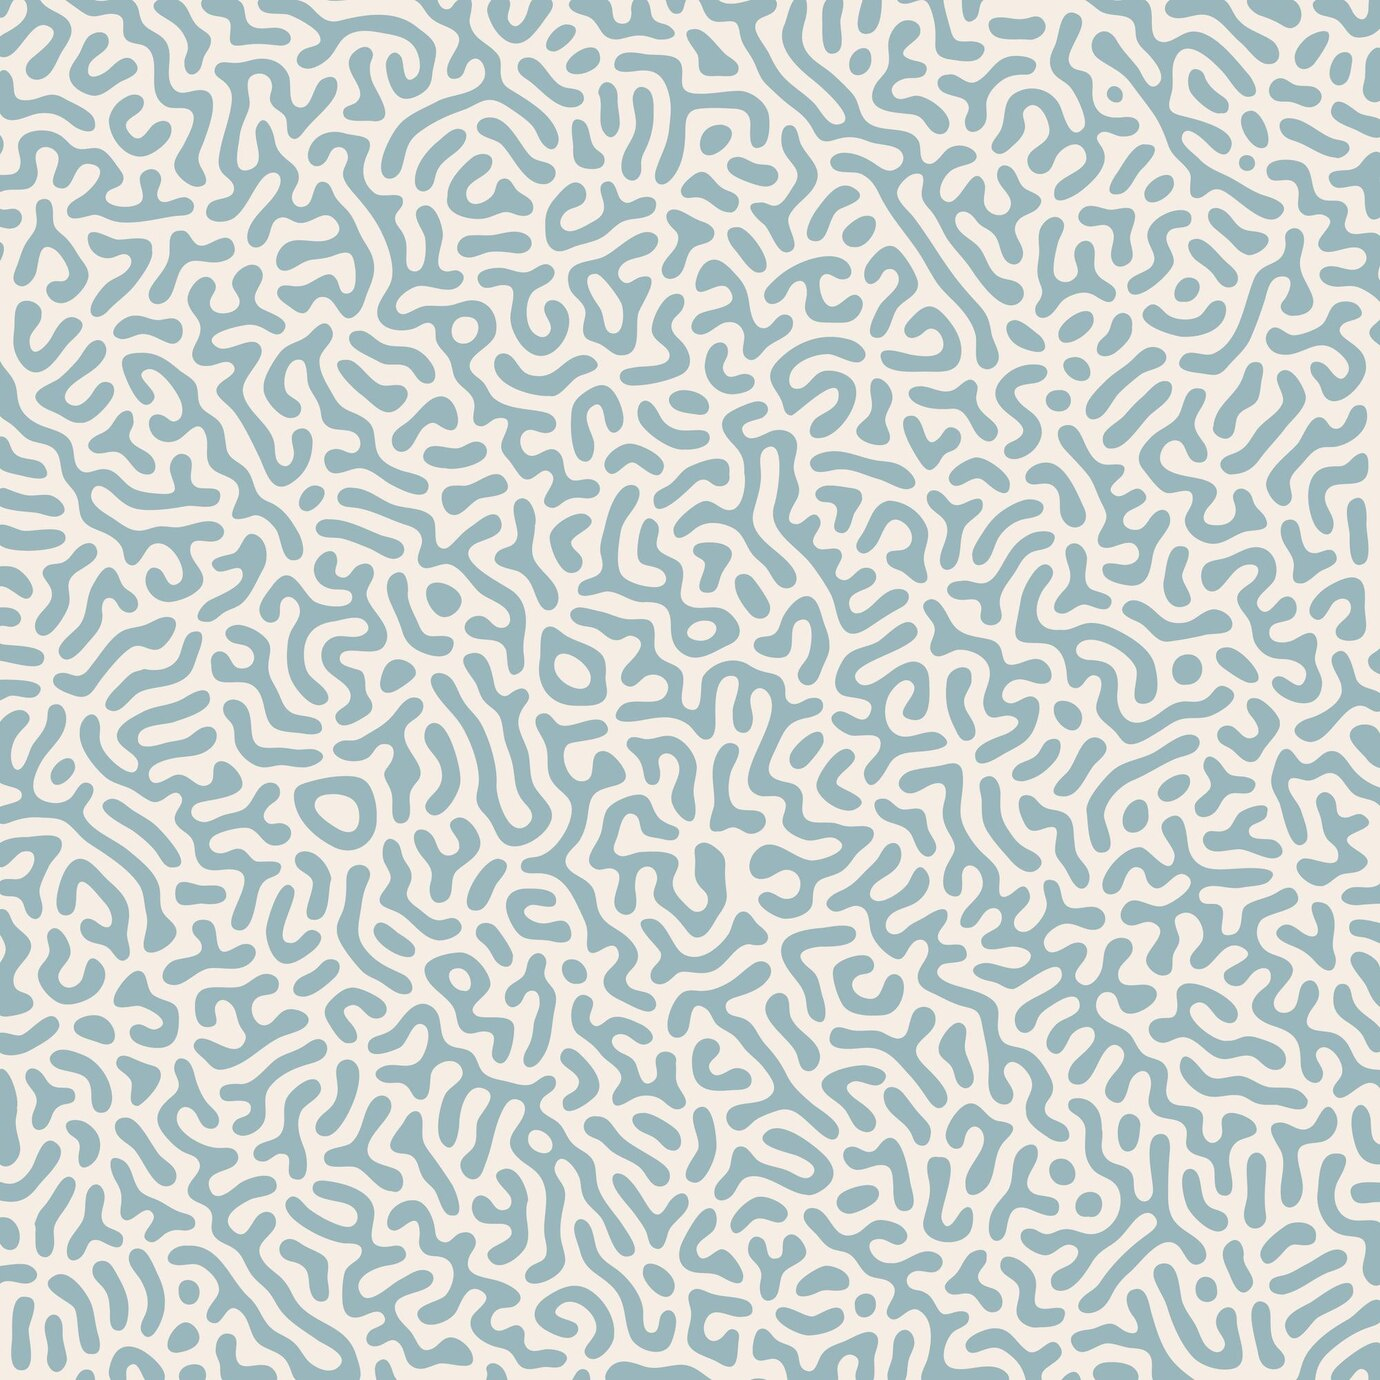
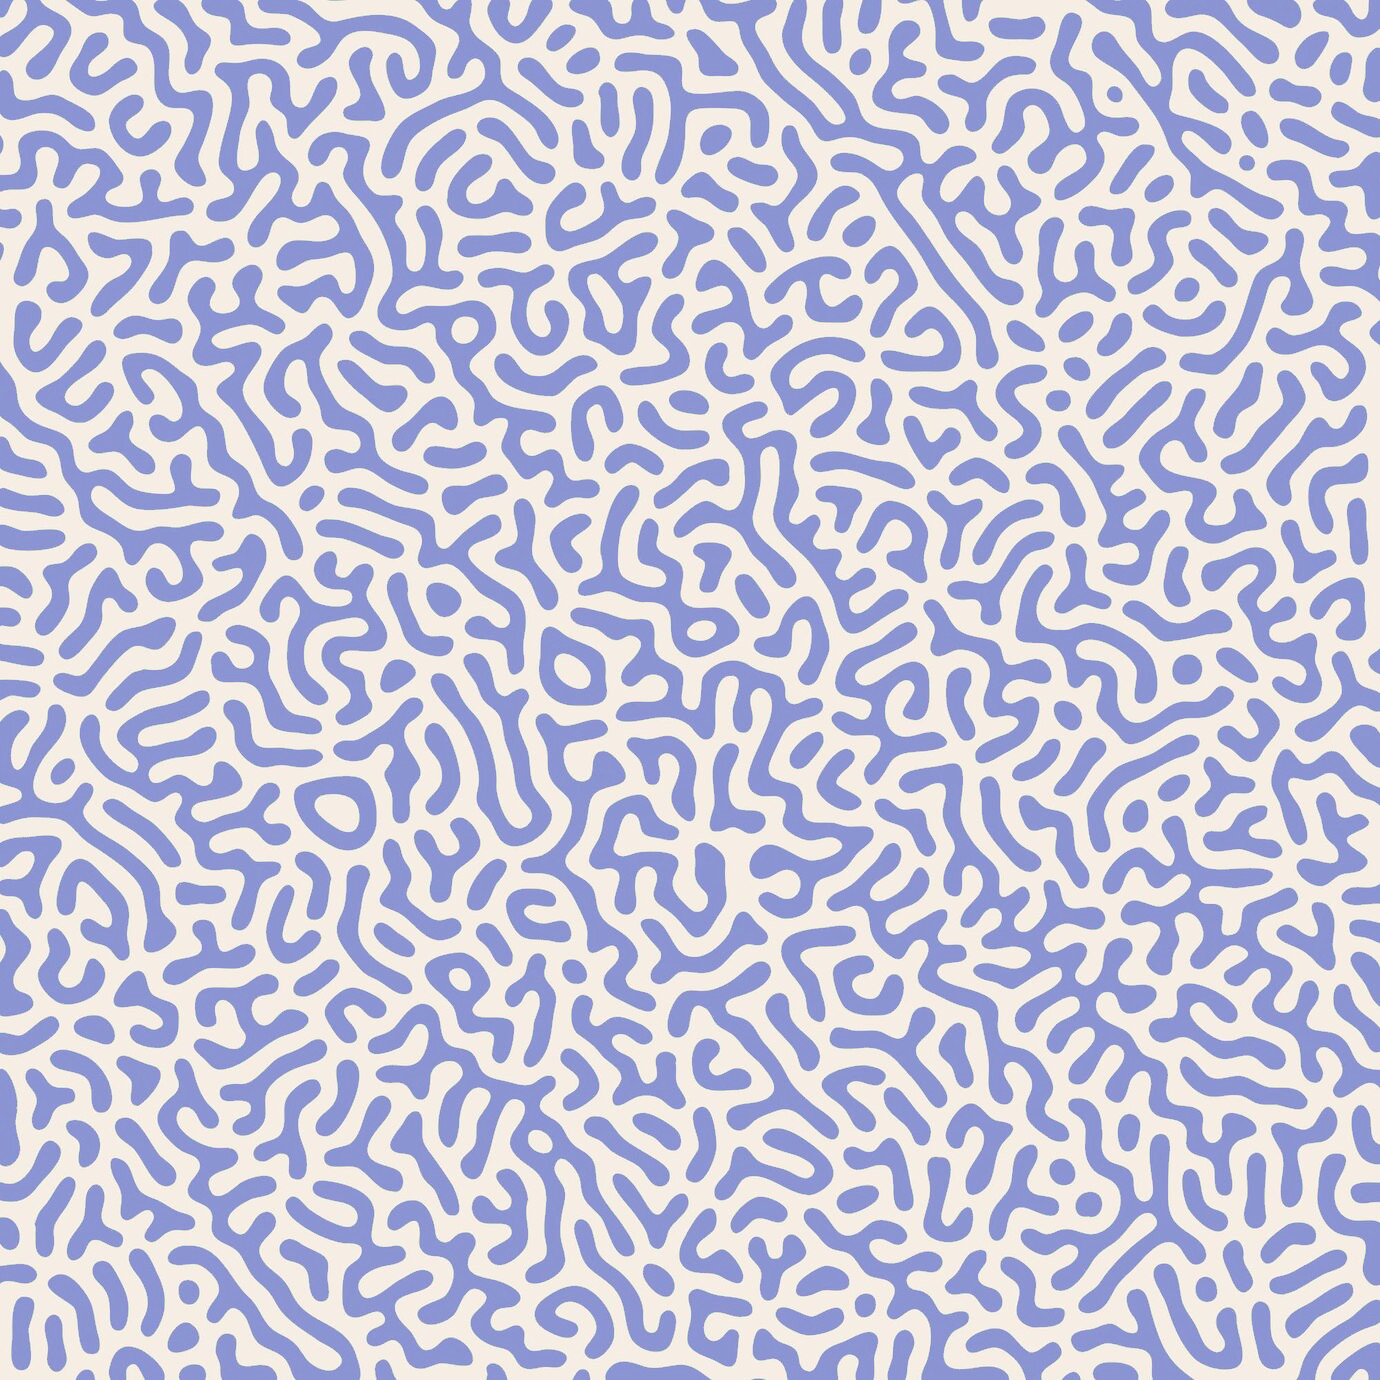
whats that?

diff --git a/web/css/styles.css b/web/css/styles.css
@@ -1,11 +1,12 @@
 :root {
   /* -clr-lt Light Colour Theme */
-  --shadow-clr-lt: #013440;
+  --shadow-clr-lt: #00057f;
   --highlight-clr-lt: #d4d4d4;
-  --background-clr-lt: #f2f2f2;
-  --header-background-clr-lt: #2f6c73;
-  --text-clr-lt: #011526;
-  --metric-clr-lt: #2f6c73;
+  --background-clr-lt: #e9e7e7;
+  --header-background-clr-lt: #97b5e9;
+  --text-header-clr-lt: #ffffff;
+  --text-clr-lt: #00057f;
+  --metric-clr-lt: #00057f;
 }
 
 * {
@@ -17,7 +18,7 @@
 body {
   background-image: url("../assets/header-back.jpg");
   background-repeat: repeat;
-  background-size: 20%;
+  background-size: 20rem;
   display: flex;
   flex-direction: column;
   align-items: center;
@@ -37,6 +38,7 @@ header {
   background-color: var(--header-background-clr-lt);
   width: 100%;
   height: 7rem;
+  color: var(--text-header-clr-lt);
 }
 
 #titleHeader {
@@ -126,13 +128,13 @@ th {
 
 tr:hover {
   transform: scale(1.001);
-  background-color: rgba(0, 99, 13, 0.05);
+  background-color: rgba(0, 40, 99, 0.05);
   transition: transform 0.2s, background-color 0.2s;
 }
 
 tr:nth-child(even):hover {
   transform: scale(1.001);
-  background-color: rgba(0, 99, 13, 0.08);
+  background-color: rgba(0, 24, 88, 0.08);
   transition: transform 0.2s, background-color 0.2s;
 }
 

diff --git a/web/js/index.js b/web/js/index.js
@@ -1,5 +1,5 @@
 import { validateSession, clearSessionAndLogout } from './auth.js';
-import { apiGetWithAuth } from './api.js';
+import { apiFetchWithAuth } from './api.js';
 
 
 // ========================================================
@@ -35,10 +35,12 @@ const initIndex = () => {
 
     // -==      Init Data View       ==-
 
+    // TODO : get data for metrics
     updateDialPercent(ID_REPAYMENT_DIAL, 0);
     updateSimpleMetric(ID_INTEREST_RATE_METRIC, 0);
 
-    const dummyLoanRecords = [
+    // const loanRecords = await apiFetchWithAuth('/loans/info');
+    const loanRecords = [
         {
             personaId: '1',
             loanAmount: '100',
@@ -55,7 +57,7 @@ const initIndex = () => {
             status: 'Active',
         },
     ];
-    populateLoanTable(dummyLoanRecords);
+    populateLoanTable(loanRecords);
 
     // -===============================-
 

diff --git a/web/js/api.js b/web/js/api.js
@@ -1,7 +1,7 @@
 import { clearSessionAndLogout, validateToken } from "./auth.js";
 import { API_URL } from "./config.js";
 
-const apiGetWithAuth = async (endpoint, options = {}) => {
+const apiFetchWithAuth = async (endpoint, options = {}) => {
     const token = sessionStorage.getItem('idToken');
 
     validateToken(token);
@@ -23,4 +23,4 @@ const apiGetWithAuth = async (endpoint, options = {}) => {
     }
 }
 
-export { apiGetWithAuth }
+export { apiFetchWithAuth }
